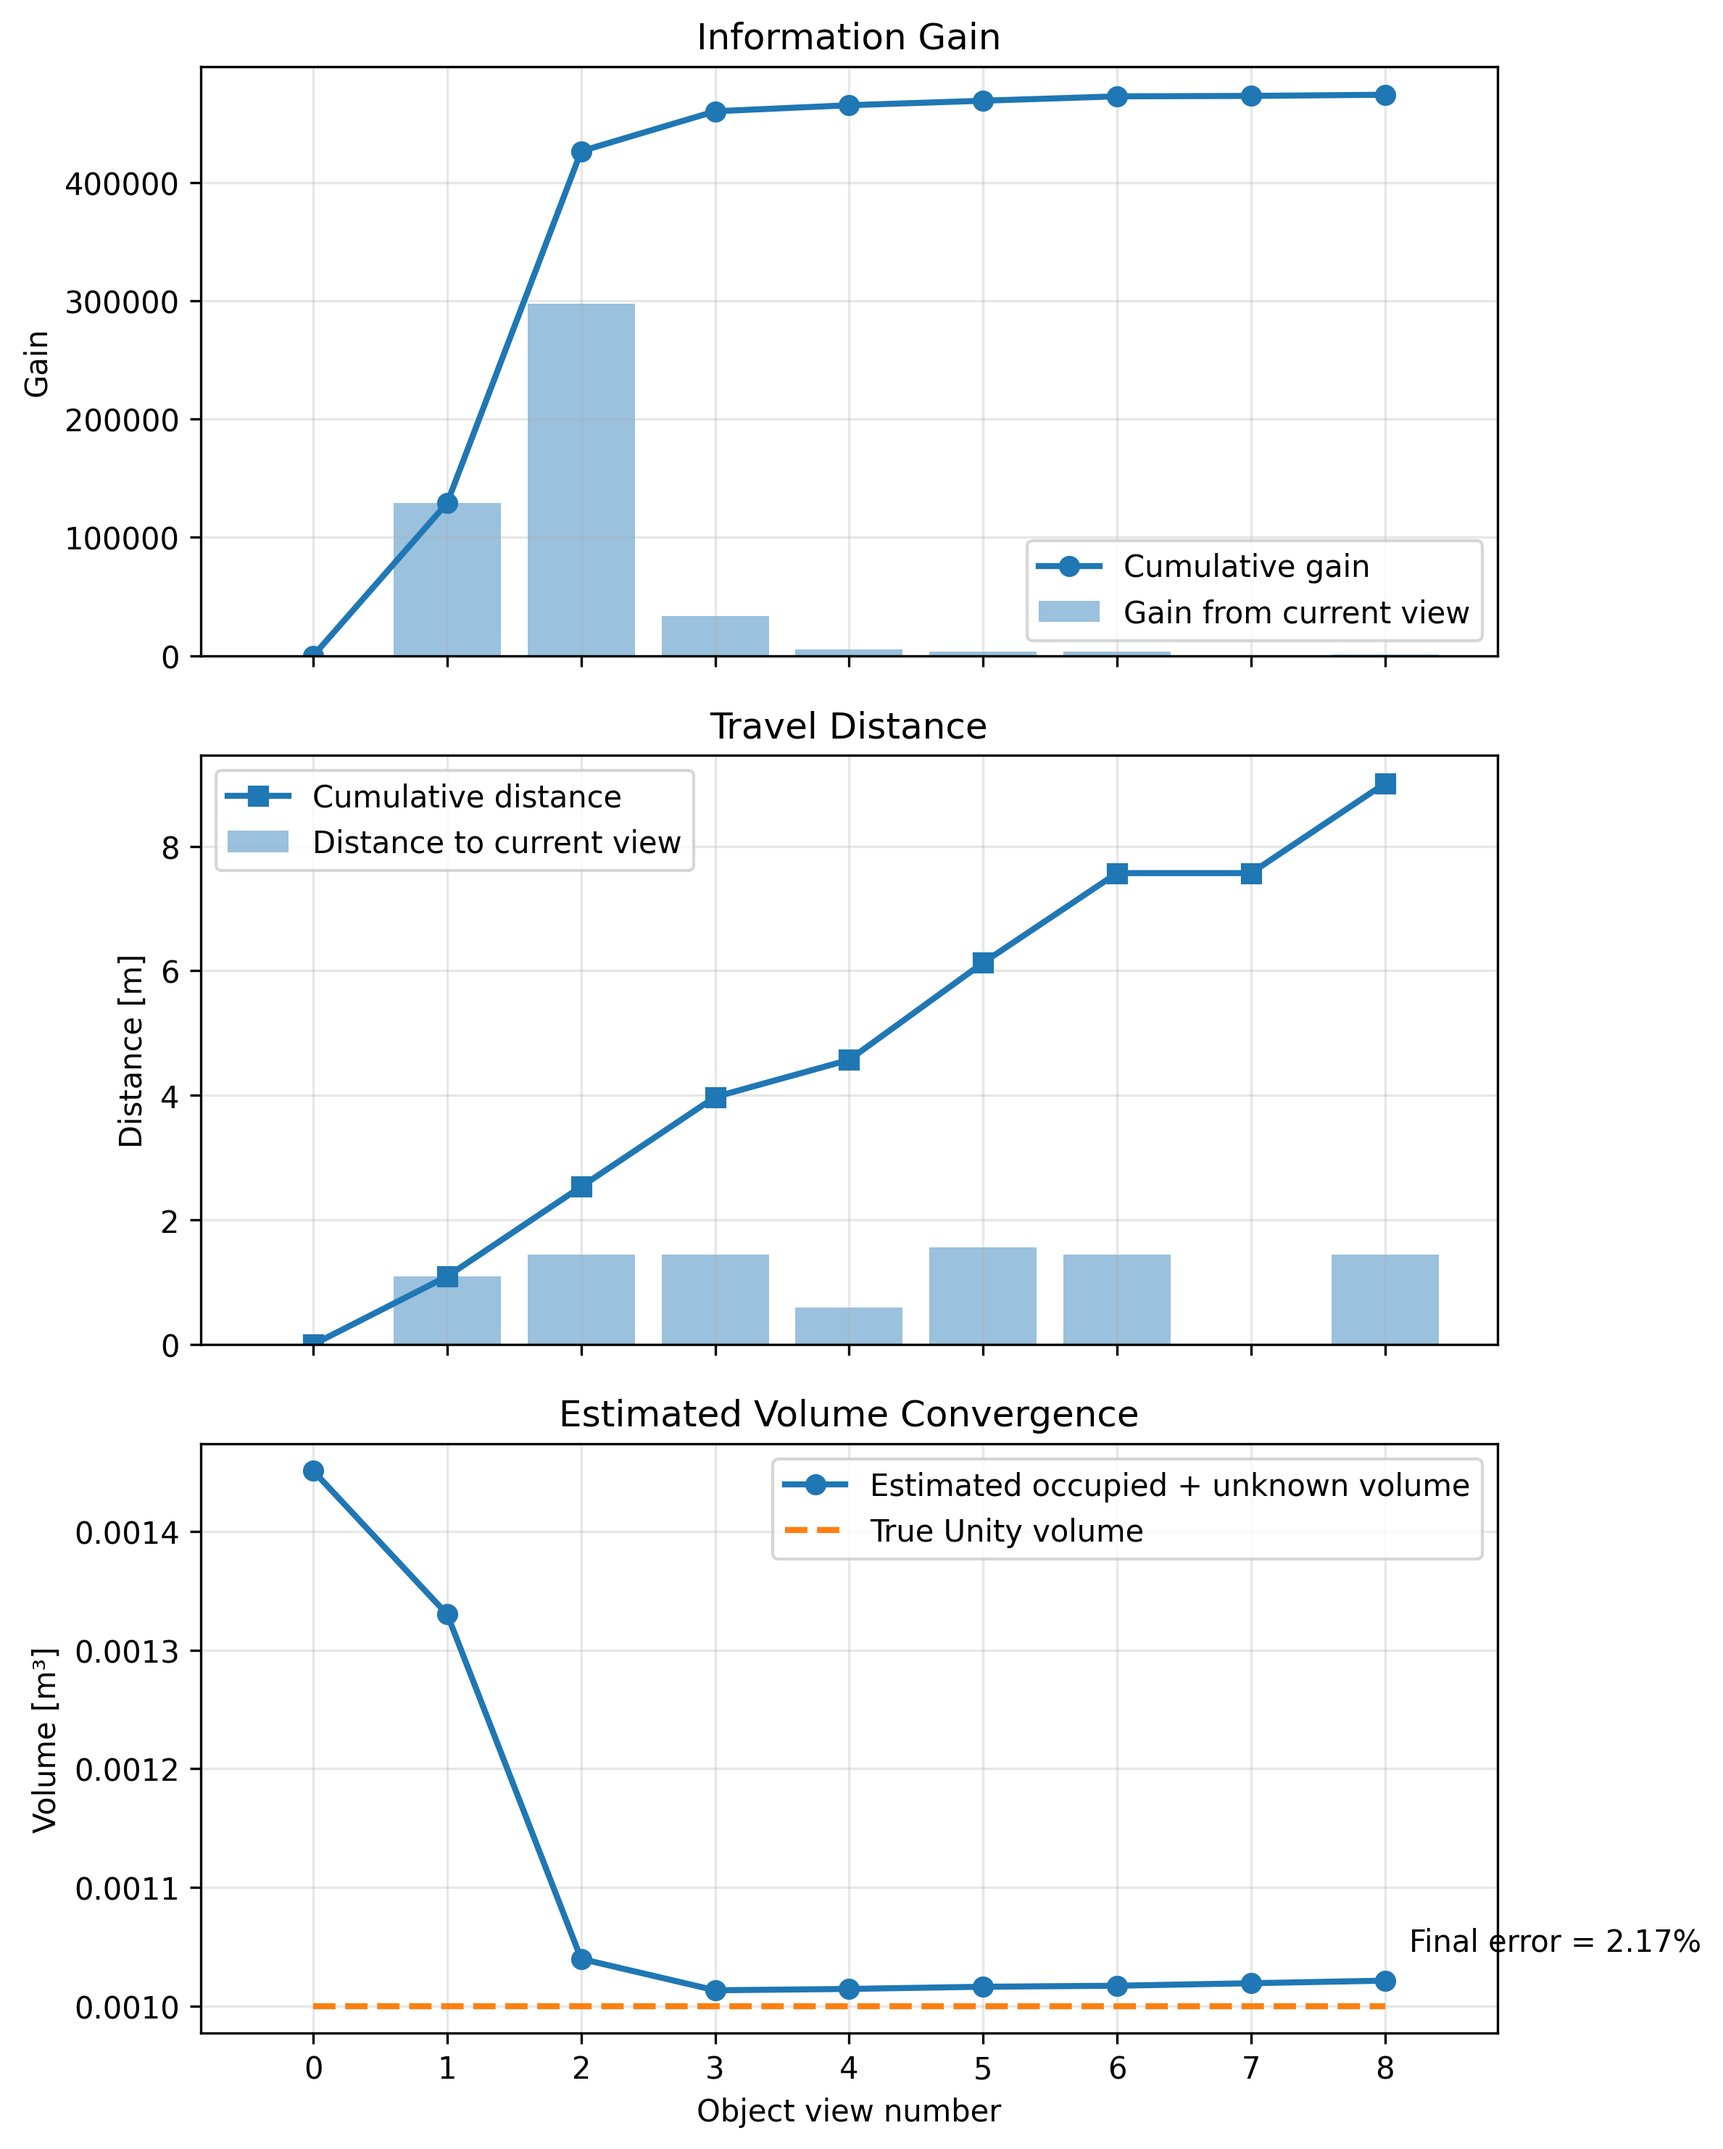
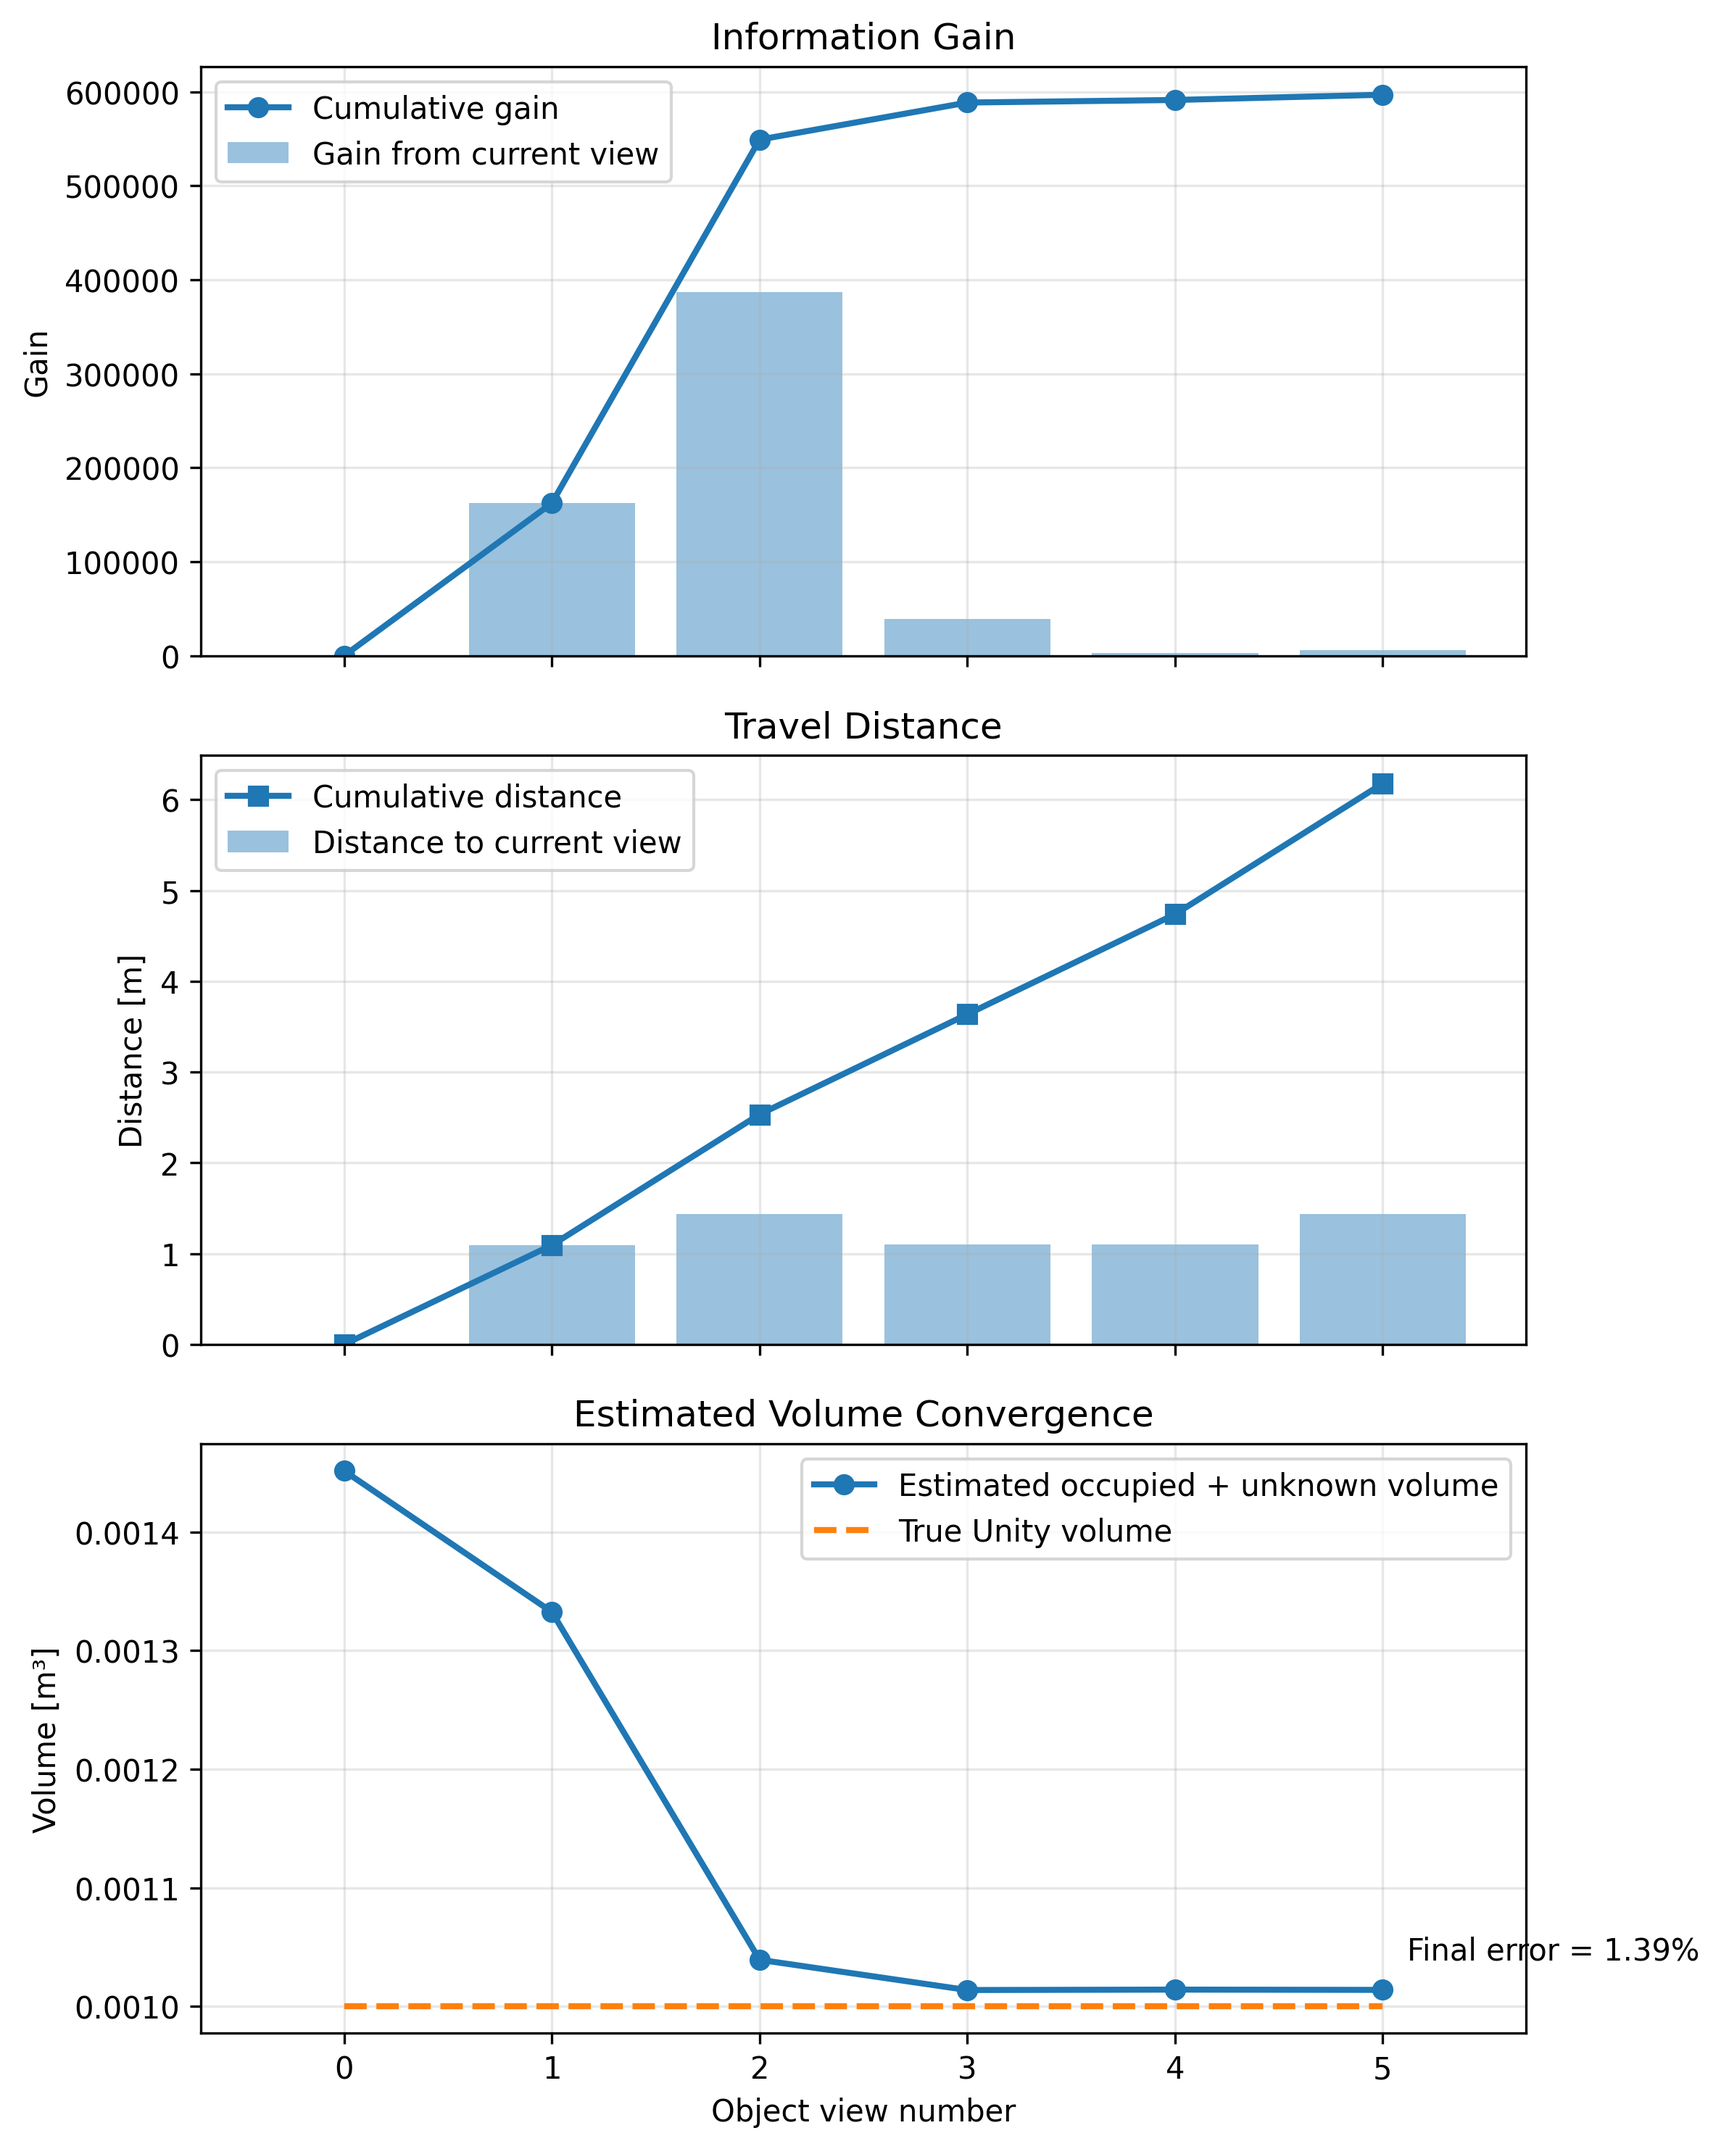
initialisation_update

diff --git a/functions_compute.py b/functions_compute.py
@@ -10,19 +10,19 @@ OCCUPIED = 2
 class ExtrusionFusionReconstruction:
     def __init__(
         self,
-        voxel_size=0.01,
+        voxel_size_ratio=0.01,
         bbox_margin=0.05,
         floor_height=0.0,
         min_z_height=0.01,
     ):
-        self.voxel_size = voxel_size
+        #self.voxel_size = 1
+        self.voxel_size_ratio = voxel_size_ratio
         self.bbox_margin = bbox_margin
         self.floor_height = floor_height
         self.min_z_height = min_z_height
         self.initialized = False
         
-        self.carve_margin = 0.5 * voxel_size
-        
+                
     def initialize(self, points_world):
         points_world = np.asarray(points_world)
         self.bbox_min, self.bbox_max, self.bbox_corners, self.bbox_center = self._compute_bbox(points_world)
@@ -30,6 +30,7 @@ class ExtrusionFusionReconstruction:
         self.voxel_state = np.full(self.grid_shape, UNKNOWN, dtype=np.uint8)
         self.observed_mask = np.zeros(self.grid_shape, dtype=bool)
         self.initialized = True
+        self.carve_margin = 0.5 * self.voxel_size
         self._update_outputs()
         self._log_status('Initialized bbox from first object detection')
 
@@ -100,11 +101,11 @@ class ExtrusionFusionReconstruction:
         return self
 
     def mark_observed_occupied(self, filtered_points):
+        self.expand_grid_if_needed(filtered_points)
         indices = self._voxelize(filtered_points)
         ix = indices[:, 0]
         iy = indices[:, 1]
         iz = indices[:, 2]
-
         self.observed_mask[ix, iy, iz] = True
         self.voxel_state[ix, iy, iz] = OCCUPIED
 
@@ -112,11 +113,23 @@ class ExtrusionFusionReconstruction:
     def _compute_bbox(self, points_world):
         bbox_min = points_world.min(axis=0).copy()
         bbox_max = points_world.max(axis=0).copy()
+        
+        initial_bbox_dimensions = bbox_max - bbox_min
+        shortest_length = initial_bbox_dimensions.min()
+        self.voxel_size = self.voxel_size_ratio * shortest_length
 
         bbox_min[[0, 2]] -= self.bbox_margin
         bbox_max[[0, 2]] += self.bbox_margin
         bbox_min[1] = self.floor_height
 
+        corners = self.get_corners(bbox_min, bbox_max)
+
+        center = 0.5 * (bbox_min + bbox_max)
+
+        return bbox_min, bbox_max, corners, center
+
+
+    def get_corners(self, bbox_min, bbox_max):
         mn_x, mn_y, mn_z = bbox_min
         mx_x, mx_y, mx_z = bbox_max
 
@@ -131,9 +144,30 @@ class ExtrusionFusionReconstruction:
             [mn_x, mx_y, mx_z],
         ])
         
-        center = 0.5 * (bbox_min + bbox_max)
+        return corners
 
-        return bbox_min, bbox_max, corners, center
+    def expand_grid_if_needed(self, points_world):
+        points_min = points_world.min(axis=0)
+        points_max = points_world.max(axis=0)
+        
+        needs_min_expand = points_min < self.bbox_min
+        needs_max_expand = points_max > self.bbox_max
+        
+        if not (np.any(needs_min_expand) or np.any(needs_max_expand)):
+            return 
+        
+        pad_min_voxels = np.maximum(0, np.ceil((self.bbox_min - points_min) / self.voxel_size).astype(int))
+        pad_max_voxels = np.maximum(0, np.ceil((points_max - self.bbox_max) / self.voxel_size).astype(int))
+        
+        self.bbox_min -= pad_min_voxels * self.voxel_size
+        self.bbox_max += pad_max_voxels * self.voxel_size
+        
+        pad_widths = list(zip(pad_min_voxels, pad_max_voxels))
+        
+        self.voxel_state = np.pad(self.voxel_state, pad_widths, mode='constant', constant_values=UNKNOWN)
+        self.observed_mask = np.pad(self.observed_mask, pad_widths, mode='constant', constant_values=False)
+        self.grid_shape = np.array(self.voxel_state.shape, dtype=int)
+        self.bbox_corners = self.get_corners(self.bbox_min, self.bbox_max)
 
     def _compute_grid_shape(self):
         return np.maximum(

diff --git a/functions_camera.py b/functions_camera.py
@@ -1,4 +1,6 @@
 import numpy as np
+from scipy.spatial.transform import Rotation as R
+
 
 DEPTH_MIN_VALID = 0.0
 DEPTH_INVALID_VALUE = -1.0
@@ -19,6 +21,18 @@ def camera_intrinsics(width, height, fov_degrees):
     cx = (width - 1) / 2.0
     cy = (height - 1) / 2.0
     return fx, fy, cx, cy
+
+def compute_lookat_quaternion(cam_pos, center: np.ndarray, world_up=np.array([0, 1, 0])):
+    forward = center - cam_pos
+    forward = forward / np.linalg.norm(forward)
+
+    right = np.cross(world_up, forward)
+    right = right / np.linalg.norm(right)
+
+    true_up = np.cross(forward, right)
+    rot_matrix =  np.column_stack((right, true_up, forward))
+
+    return R.from_matrix(rot_matrix).as_quat()
 
 def quaternion_to_rotation_matrix(qx, qy, qz, qw):
     q = np.array([qx, qy, qz, qw], dtype=np.float64)
@@ -64,3 +78,71 @@ def filter_by_height(depth, fov_degrees, far, position, quaternion, floor_height
     points_world = camera_to_world(points_camera, position, quaternion)
     min_height = floor_height + height_threshold 
     return points_world[points_world[:, 1] > min_height ]
+
+class Initialization:
+    def __init__(self, min_height, max_elev_deg=30, min_points=100, min_alt_buffer=1.5):
+        self.min_height = min_height
+        self.max_elev_rad = np.deg2rad(max_elev_deg)
+        self.min_points = min_points
+        self.min_alt_buffer = min_alt_buffer
+    
+    def verify_num_points(self, points_world):
+        if len(points_world) < self.min_points:
+            return False
+        return True
+
+    def verify_altitude(self, points_world, camera_pos):
+        median_y = np.median(points_world[:, 1])
+        if camera_pos[1] < median_y * self.min_alt_buffer:
+            return False
+        return True
+    
+    def verification(self, points_world, camera_pos, quaternion, width, height, fov_degrees):
+        if not self.verify_num_points(points_world):
+            return False
+        if not self.verify_altitude(points_world, camera_pos):
+            return False
+        if not self.verify_full_visibility(points_world, camera_pos, quaternion, width, height, fov_degrees):
+            return False
+        return True
+
+    def verify_full_visibility(self, points_world, camera_pos, quaternion, width, height, fov_degrees, border_pixel=20):
+        points_camera = world_to_camera(points_world, camera_pos, quaternion)
+        
+        x = points_camera[:, 0]
+        y = points_camera[:, 1]
+        z = points_camera[:, 2]
+        
+        fx, fy, cx, cy = camera_intrinsics(width, height, fov_degrees)
+        
+        u = (x * fx / z) + cx
+        v = (y * fy / z) + cy
+        
+        all_u_valid = np.all((u >= border_pixel) & (u < width - border_pixel))
+        all_v_valid = np.all((v >= border_pixel) & (v < height - border_pixel))
+        
+        return all_u_valid and all_v_valid
+
+    def get_object_properties(self, points_world):
+        object_min = points_world.min(axis=0)
+        object_max = points_world.max(axis=0)
+        object_center = (object_min + object_max) / 2
+        return object_min, object_max, object_center
+
+    def initial_position(self, points_world):
+        views = []
+        _, object_max, object_center = self.get_object_properties(points_world)
+        y_init = max(object_max[1] * self.min_alt_buffer, self.min_height)
+        dy = y_init - object_center[1]
+        r_init = dy / np.sin(self.max_elev_rad)
+        r_azi = r_init * np.cos(self.max_elev_rad)
+        
+        initial_position = np.array([object_center[0] , y_init, object_center[2]+ r_azi])
+        initial_quaternion = compute_lookat_quaternion(initial_position, object_center)
+
+        views.append({"view_id":0,"pos":initial_position, "quat": initial_quaternion})        
+        return views
+    
+    
+    
+    

diff --git a/main.py b/main.py
@@ -2,7 +2,7 @@ import numpy as np
 import os
 from nbv.nbv_main import NextBestViewPlanner, CameraIntrinsics
 from functions_compute import ExtrusionFusionReconstruction
-from functions_camera import  filter_by_height
+from functions_camera import  filter_by_height, Initialization
 from functions_connect import (
     create_server,
     receive_header,
@@ -19,7 +19,7 @@ NBV_HOST = "127.0.0.1"
 NBV_PORT = 9020
 
 # input
-VOXEL_SIZE = 0.001
+VOXEL_SIZE = 0.01 
 BBOX_MARGIN = 0.05
 FLOOR_HEIGHT = 0.0
 HEIGHT_THRESHOLD = 1e-3
@@ -32,6 +32,7 @@ NUM_ELEV = 3
 NUM_AZIM = 8
 FAC_INFL = 1.2
 DISTANCE_PENALTY = False
+MAX_ELEV_DEG = 30
 
 # stopping condition5
 VOLUME_CHANGE_THRESHOLD = 0.03
@@ -52,11 +53,17 @@ def main():
           f"{NBV_HOST}:{NBV_PORT}")
     
     recon = ExtrusionFusionReconstruction(
-        voxel_size=VOXEL_SIZE,
+        voxel_size_ratio=VOXEL_SIZE,
         bbox_margin=BBOX_MARGIN,
         floor_height=FLOOR_HEIGHT,
         min_z_height=HEIGHT_THRESHOLD,
     )
+    
+    initial = Initialization(
+        min_height = NBV_MIN_HEIGHT,
+        max_elev_deg = MAX_ELEV_DEG,
+    )
+    
     waiting_for_nbv_move = False
     pending_nbv_position = None
     detected_view_count = 0
@@ -68,6 +75,9 @@ def main():
     prev_volume = None
     unknown_voxel_history = [] # number of unknown voxels
     position_history = []
+    
+    # initialisation state
+    initial_target_sent = False
     
     # nbv history
     nbv_distance = []
@@ -96,8 +106,17 @@ def main():
                 )
                 if len(filtered_points) == 0:
                     continue
-                recon.initialize(filtered_points)
-                print('INITIAL_UNKNOWN_COUNT', recon.unknown_count)
+                
+                if not initial_target_sent:
+                    initial_views = initial.initial_position(filtered_points)
+                    send_next_view(nbv_socket, initial_views[0])
+                    initial_target_sent = True
+                    continue 
+                                    
+                if initial.verification(filtered_points, position, quat, width, height, fov):
+                    recon.initialize(filtered_points)
+                    print('INITIAL_UNKNOWN_COUNT', recon.unknown_count)
+            
                 
             if waiting_for_nbv_move:
                 is_at_target, distance = is_drone_at_target(position, pending_nbv_position, NBV_POSITION_TOLERANCE)

diff --git a/nbv/nbv_main.py b/nbv/nbv_main.py
@@ -2,7 +2,7 @@ from dataclasses import dataclass
 import matplotlib.pyplot as plt
 import numpy as np
 from scipy.spatial.transform import Rotation as R
-from functions_camera import world_to_camera
+from functions_camera import world_to_camera, compute_lookat_quaternion
 from nbv.nbv_distance import compute_distance
 
 
@@ -35,18 +35,6 @@ class NextBestViewPlanner:
         self.view_radius = self.r_obj / np.sin(0.5 * np.deg2rad(self.camera.fov_deg)) * self.margin
 
     @staticmethod
-    def compute_lookat_quaternion(cam_pos: np.ndarray, center: np.ndarray, world_up=np.array([0, 1, 0])) -> np.ndarray:
-        forward = center - cam_pos
-        forward = forward / np.linalg.norm(forward)
-
-        right = np.cross(world_up, forward)
-        right = right / np.linalg.norm(right)
-
-        true_up = np.cross(forward, right)
-        rot_matrix =  np.column_stack((right, true_up, forward))
-
-        return R.from_matrix(rot_matrix).as_quat()
-
     def generate_candidate_views(self, n_elev: int, n_azi: int, elev_min_deg=-30, elev_max_deg=30):
         d_off = max(0.0, self.min_height - self.center[1])
         radius_height = d_off / np.sin(np.deg2rad(elev_max_deg))
@@ -72,7 +60,7 @@ class NextBestViewPlanner:
                 ], dtype=float)
                 print(cam_pos)
                 if cam_pos[1] >= self.min_height:
-                    quat = self.compute_lookat_quaternion(cam_pos, self.center)
+                    quat = compute_lookat_quaternion(cam_pos, self.center)
                     views.append({'view_id': view_id, 'pos': cam_pos, 'quat': quat})
                     view_id += 1
                 else:
